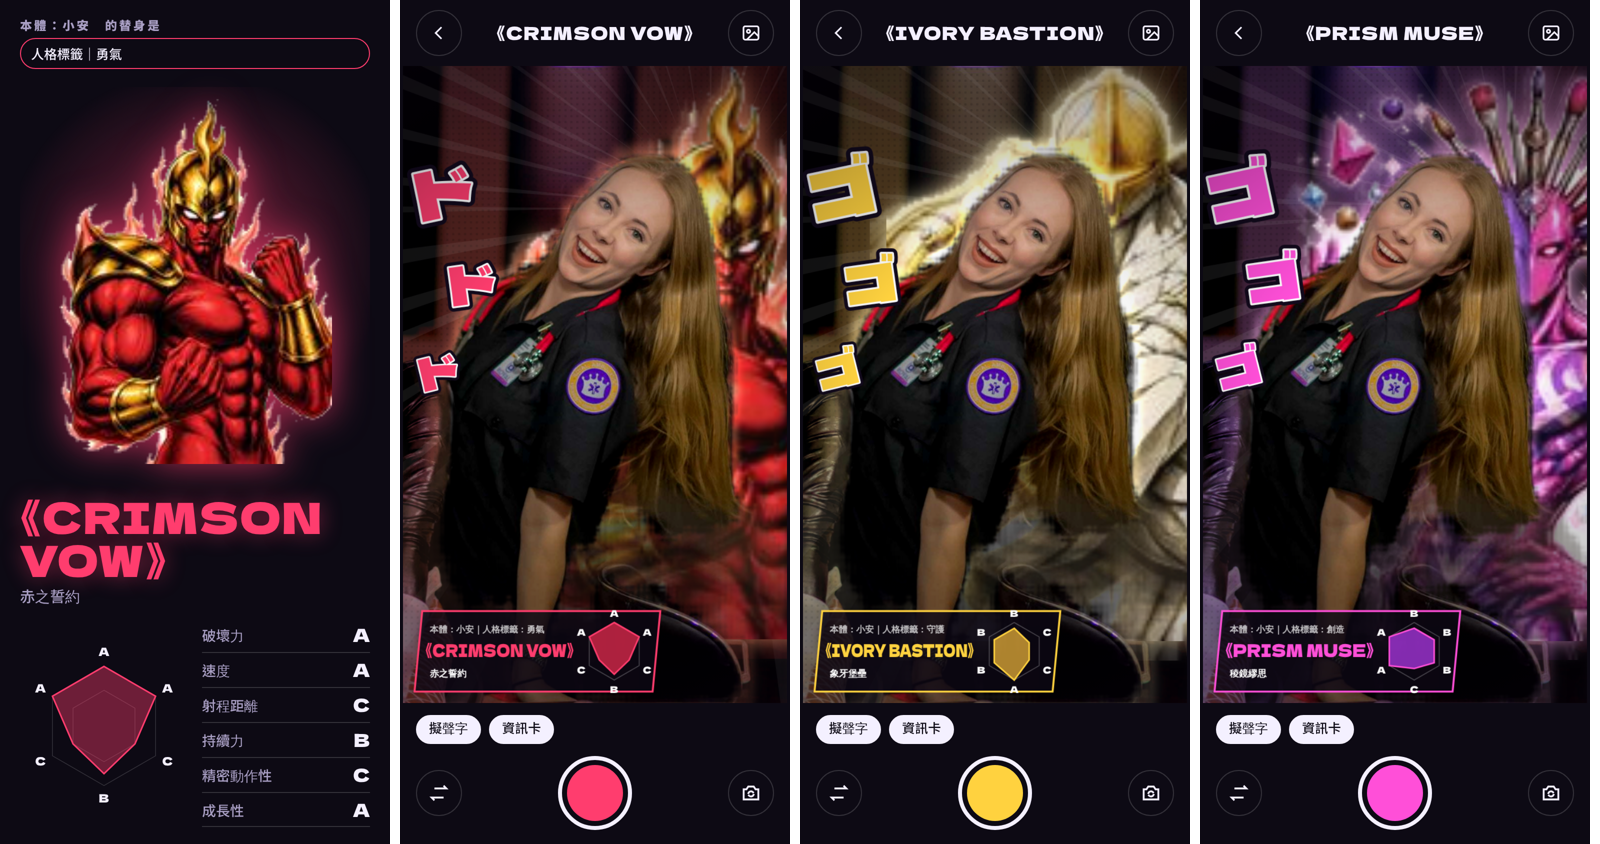
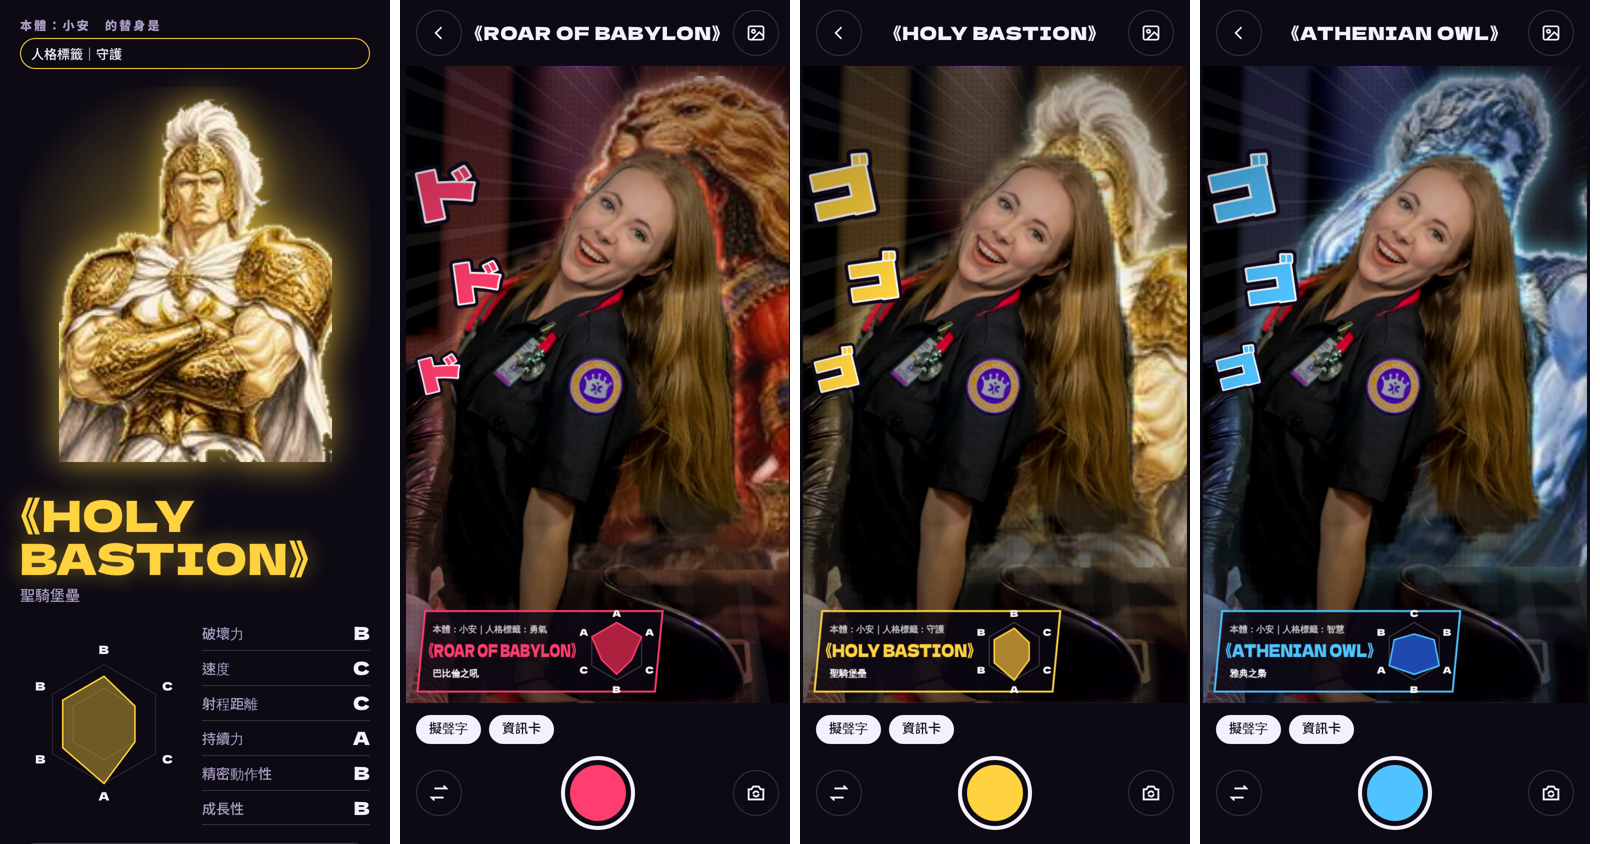
替身改為古典神話風格（巴比倫、希臘、中世紀、羅馬、文藝復興）
六隻替身改成人類臉孔的古典造型，名稱與能力描述配合新造型。

Claude-Session: https://claude.ai/code/session_01FywWfzukWDvxouKVzAMEPQ

diff --git a/stand-filter/quiz.js b/stand-filter/quiz.js
@@ -3,40 +3,40 @@
 
 // 每隻替身的圖放在 stands/<id>.png 或 stands/<id>.jpg（白底或透明底都可以）
 export const STANDS = {
-  courage: { tag: '勇氣', name: 'CRIMSON VOW', zh: '赤之誓約', sfx: 'ド',
+  courage: { tag: '勇氣', name: 'ROAR OF BABYLON', zh: '巴比倫之吼', sfx: 'ド',
     tint: '#ff2e55', glow: '#ff9a6b', text: '#ff3d6e',
     grade: { pow: 'A', spd: 'A', rng: 'C', dur: 'B', pre: 'C', gro: 'A' },
-    ability: '出拳前拳頭會先燃燒起來。本體越害怕，火燒得越旺。',
+    ability: '一聲怒吼，能讓本體和身邊的人一起忘記恐懼。出拳時背後會浮現金色的獅鬃。',
     note: '阿德勒說，勇氣不是不害怕，而是怕了還是往前一步。',
     try: '這週做一件你有點怕、但其實做得到的小事。' },
-  wisdom: { tag: '智慧', name: 'BLUE CIPHER', zh: '蒼藍密碼', sfx: 'ゴ',
+  wisdom: { tag: '智慧', name: 'ATHENIAN OWL', zh: '雅典之梟', sfx: 'ゴ',
     tint: '#2a6bff', glow: '#7fe8ff', text: '#4fc3ff',
     grade: { pow: 'C', spd: 'B', rng: 'A', dur: 'B', pre: 'A', gro: 'B' },
-    ability: '三隻眼睛能看穿事物背後的規則，一眼找出問題卡在哪裡。',
+    ability: '手指輕點太陽穴，就能看穿事物背後的規則，一眼找出問題卡在哪裡。',
     note: '你最容易在「終於弄懂了」的那一刻進入心流。',
     try: '挑一個好奇很久的問題，花 30 分鐘把它查到底。' },
-  guard: { tag: '守護', name: 'IVORY BASTION', zh: '象牙堡壘', sfx: 'ゴ',
+  guard: { tag: '守護', name: 'HOLY BASTION', zh: '聖騎堡壘', sfx: 'ゴ',
     tint: '#ffc23d', glow: '#fff1b8', text: '#ffd23f',
     grade: { pow: 'B', spd: 'C', rng: 'C', dur: 'A', pre: 'B', gro: 'B' },
-    ability: '交叉的雙臂能展開看不見的盾，擋下衝向重要之人的一切。',
+    ability: '交叉雙臂就能展開聖光之盾，擋下衝向重要之人的一切。',
     note: '你的力量來自「為了別人」。阿德勒稱這是社會情懷，是最健康的力量來源。',
     try: '守護別人之前，也記得問問自己：今天累不累？' },
-  freedom: { tag: '自由', name: 'EMERALD GALE', zh: '翡翠疾風', sfx: 'ゴ',
+  freedom: { tag: '自由', name: 'MERCURY GALE', zh: '信使之風', sfx: 'ゴ',
     tint: '#12d688', glow: '#c6ffe4', text: '#2bd97c',
     grade: { pow: 'C', spd: 'A', rng: 'A', dur: 'C', pre: 'B', gro: 'A' },
-    ability: '能把自己化成一陣風，去任何想去的地方，誰都抓不住。',
+    ability: '能化作一陣風，帶著本體去任何想去的地方，誰都抓不住。',
     note: '你要能自己決定怎麼做，才會全力以赴。自主，是你的心流開關。',
     try: '這週挑一件事，完全照你自己的方式完成。' },
-  create: { tag: '創造', name: 'PRISM MUSE', zh: '稜鏡繆思', sfx: 'ゴ',
+  create: { tag: '創造', name: 'VENETIAN MUSE', zh: '威尼斯繆思', sfx: 'ゴ',
     tint: '#c03dff', glow: '#ffb3f0', text: '#ff4fd8',
     grade: { pow: 'B', spd: 'B', rng: 'B', dur: 'C', pre: 'A', gro: 'A' },
-    ability: '手掌能把想像畫進現實，畫出來的東西會真的存在三秒。',
+    ability: '手中灑出的花瓣與金箔落在哪裡，哪裡就會長出新的東西。',
     note: '動手做東西做到忘了時間，就是你的心流。',
     try: '每天留 15 分鐘，做一件沒人要求、只為好玩的作品。' },
-  bond: { tag: '羈絆', name: 'CORAL THREAD', zh: '珊瑚之線', sfx: 'ド',
+  bond: { tag: '羈絆', name: 'SUN OF UR', zh: '烏爾之陽', sfx: 'ド',
     tint: '#ff7a2e', glow: '#ffd9b0', text: '#ff9a4d',
     grade: { pow: 'C', spd: 'C', rng: 'A', dur: 'A', pre: 'B', gro: 'A' },
-    ability: '指尖的光線能把人和人的心連起來。連起來的人越多，它就越強。',
+    ability: '指尖的金色絲線能把人和人的心連起來。連起來的人越多，它就越強。',
     note: '理解別人、也被別人理解，是你最大的能量。馬斯洛把它叫作歸屬需求。',
     try: '主動聯絡一個好久沒聊的朋友。' },
 };

diff --git a/stand-filter/sw.js b/stand-filter/sw.js
@@ -1,5 +1,5 @@
 // 第一次開啟後把程式與模型存在手機裡，之後打開更快、沒網路也能用
-const CACHE = 'stand-cam-v3';
+const CACHE = 'stand-cam-v4';
 const SHELL = ['./', 'index.html', 'app.js', 'quiz.js', 'manifest.webmanifest', 'icon-192.png', 'apple-touch-icon.png',
   'lib/vision_bundle.mjs',
   ...['courage', 'wisdom', 'guard', 'freedom', 'create', 'bond'].map((id) => `stands/${id}.jpg`), 'models/selfie_segmenter.tflite'];

diff --git a/stand-filter/README.md b/stand-filter/README.md
@@ -1,6 +1,6 @@
 # 替身偵測器
 
-手機網頁小遊戲：先做八題測驗找出自己的替身，再打開相機把它召喚到身後，拍完可以直接分享到 LINE。
+手機網頁小遊戲：先做五題測驗找出自己的替身，再打開相機把它召喚到身後，拍完可以直接分享到 LINE。
 
 ## 玩法
 
@@ -11,14 +11,14 @@
 
 放在 `stands/`，檔名固定：
 
-| 檔名 | 標籤 | 替身 |
-|---|---|---|
-| courage | 勇氣 | 《CRIMSON VOW》赤之誓約 |
-| wisdom | 智慧 | 《BLUE CIPHER》蒼藍密碼 |
-| guard | 守護 | 《IVORY BASTION》象牙堡壘 |
-| freedom | 自由 | 《EMERALD GALE》翡翠疾風 |
-| create | 創造 | 《PRISM MUSE》稜鏡繆思 |
-| bond | 羈絆 | 《CORAL THREAD》珊瑚之線 |
+| 檔名 | 標籤 | 替身 | Canva 原圖 |
+|---|---|---|---|
+| courage | 勇氣 | 《ROAR OF BABYLON》巴比倫之吼 | https://www.canva.com/M/MAHXRz7tPjQ |
+| wisdom | 智慧 | 《ATHENIAN OWL》雅典之梟 | https://www.canva.com/M/MAHXR1XDyp4 |
+| guard | 守護 | 《HOLY BASTION》聖騎堡壘 | https://www.canva.com/M/MAHXRyl9hO8 |
+| freedom | 自由 | 《MERCURY GALE》信使之風 | https://www.canva.com/M/MAHXRwbbLrA |
+| create | 創造 | 《VENETIAN MUSE》威尼斯繆思 | https://www.canva.com/M/MAHXR0wrinY |
+| bond | 羈絆 | 《SUN OF UR》烏爾之陽 | https://www.canva.com/M/MAHXR5idbyA |
 
 `.png` 或 `.jpg` 都可以（有 `.png` 會優先用）。白底的圖會自動去背，透明底也可以。
 目前放的是縮圖（約 150×200），要換成高解析的原圖才會清楚：用相同檔名覆蓋即可。
